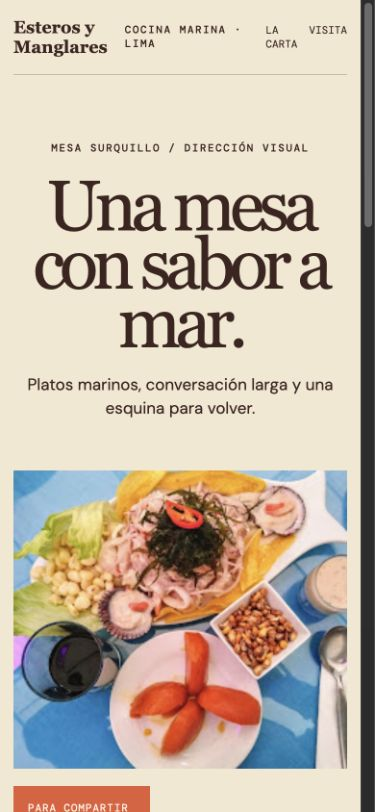
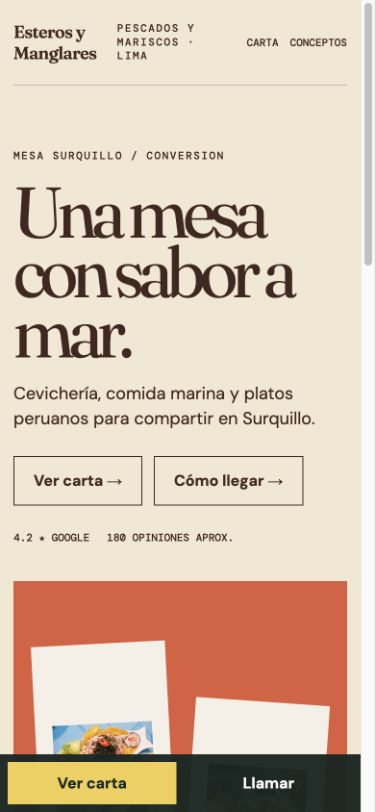
Add private Esteros concept review routes

diff --git a/concepts/concepts.css b/concepts/concepts.css
@@ -1,0 +1,142 @@
+@import url('https://fonts.googleapis.com/css2?family=DM+Mono:wght@400;500&family=DM+Sans:wght@400;500;700&family=Fraunces:opsz,wght@9..144,400;9..144,600&family=Space+Grotesk:wght@400;500;600;700&display=swap');
+:root { --ink:#172621; --paper:#f6f2e9; --line:rgba(23,38,33,.22); --teal:#087f79; --orange:#e65e36; --blue:#2440be; --yellow:#f1cf50; --sans:'DM Sans',Arial,sans-serif; --display:'Space Grotesk',Arial,sans-serif; --serif:'Fraunces',Georgia,serif; --mono:'DM Mono',monospace; }
+* { box-sizing:border-box; }
+html { scroll-behavior:smooth; }
+body { margin:0; font-family:var(--sans); line-height:1.45; }
+a { color:inherit; text-decoration:none; }
+a:focus-visible { outline:3px solid var(--orange); outline-offset:4px; }
+img { display:block; max-width:100%; }
+.concept-shell { width:min(1180px,calc(100% - 40px)); margin:0 auto; }
+.concept-site .kicker { font:500 11px/1.3 var(--mono); letter-spacing:.14em; text-transform:uppercase; }
+.concept-site .topbar { display:flex; align-items:center; justify-content:space-between; gap:28px; padding:22px 0; border-bottom:1px solid currentColor; border-color:var(--line); }
+.concept-site .brand { font-weight:700; letter-spacing:-.03em; }
+.concept-site nav { display:flex; gap:22px; font:500 11px var(--mono); text-transform:uppercase; }
+.concept-site .button { display:inline-flex; min-height:48px; align-items:center; justify-content:center; padding:13px 20px; border:1px solid currentColor; font-weight:700; }
+.concept-site .button:hover { transform:translateY(-2px); }
+.concept-site .actions { display:flex; flex-wrap:wrap; gap:12px; margin-top:26px; }
+.concept-site .section { padding:92px 0; }
+.concept-site h1,.concept-site h2 { margin:0; letter-spacing:-.08em; line-height:.9; }
+.concept-site h2 { font:600 clamp(44px,7vw,86px)/.9 var(--display); }
+.concept-site .photo-frame { display:grid; place-items:center; min-height:320px; padding:36px; background:#e4ded1; }
+.concept-site .photo { width:min(100%,243px); height:auto; }
+.concept-site .menu-list { display:grid; }
+.concept-site .menu-item { padding:20px 0; border-top:1px solid var(--line); }
+.concept-site .menu-item strong { display:block; font-size:18px; }
+.concept-site .menu-item p { max-width:560px; margin:5px 0 0; opacity:.7; }
+.concept-site .footer { padding:30px 0 80px; border-top:1px solid var(--line); font-size:13px; }
+.concept-site .footer-row { display:flex; justify-content:space-between; gap:20px; }
+.concept-site .review-strip { display:flex; flex-wrap:wrap; gap:18px; margin-top:26px; font:500 11px var(--mono); text-transform:uppercase; }
+.concept-site .mobile-bar { display:none; }
+.concept-site .inner-hero { padding:88px 0 76px; border-bottom:1px solid var(--line); }
+.concept-site .inner-hero h1 { max-width:780px; margin:20px 0; font:600 clamp(58px,10vw,122px)/.84 var(--display); }
+.concept-site .inner-hero p:not(.kicker) { max-width:610px; font-size:19px; }
+.concept-site .inner-grid { display:grid; grid-template-columns:.7fr 1.3fr; gap:90px; }
+.concept-site .inner-grid h2 { margin-bottom:28px; }
+.concept-site .contact-list { display:grid; }
+.concept-site .contact-list a { padding:18px 0; border-top:1px solid var(--line); font:400 28px var(--serif); }
+.concept-site .contact-list a:hover { color:var(--orange); }
+
+/* Mar Abierto: bright split and food-first */
+.mar { background:#faf8f3; color:var(--ink); }
+.mar .brand { font:700 16px var(--display); }
+.mar .hero { display:grid; grid-template-columns:1fr 1.1fr; gap:70px; align-items:center; min-height:690px; padding:70px 0 92px; }
+.mar .hero h1 { max-width:570px; margin:20px 0 26px; font:600 clamp(62px,9vw,124px)/.82 var(--display); }
+.mar .hero-copy > p:not(.kicker) { max-width:420px; font-size:19px; }
+.mar .hero .photo-frame { position:relative; min-height:520px; background:var(--teal); }
+.mar .hero .photo-frame::after { content:'PESCADOS · MARISCOS · SURQUILLO'; position:absolute; right:18px; bottom:18px; padding:12px; background:var(--yellow); color:var(--ink); font:500 10px var(--mono); letter-spacing:.08em; }
+.mar .hero .photo { align-self:center; }
+.mar .trust { padding:20px 0; border-block:1px solid var(--line); }
+.mar .trust .concept-shell { display:flex; justify-content:space-between; gap:22px; align-items:center; }
+.mar .trust strong { font-size:18px; }
+.mar .menu-section { display:grid; grid-template-columns:.75fr 1.25fr; gap:90px; }
+.mar .section:nth-of-type(3) { background:#eaf1ea; }
+.mar .location { display:grid; grid-template-columns:1fr .8fr; gap:70px; align-items:center; }
+.mar .location .photo-frame { min-height:310px; background:#d9d0bf; }
+
+/* Mesa Surquillo: denser neighborhood conversion */
+.mesa { background:#f2e6d2; color:#442621; }
+.mesa .brand { font:600 18px var(--serif); }
+.mesa .hero { display:grid; grid-template-columns:.9fr .75fr; gap:70px; align-items:end; padding:72px 0 70px; }
+.mesa .hero-copy h1 { max-width:560px; margin:20px 0; font:400 clamp(60px,9vw,118px)/.84 var(--serif); }
+.mesa .hero-copy > p:not(.kicker) { max-width:470px; font-size:18px; }
+.mesa .hero-visual { display:flex; align-items:end; justify-content:center; gap:18px; min-height:440px; padding:25px; background:#df5b3c; }
+.mesa .hero-visual .photo-frame { min-height:270px; padding:18px; background:#f6f0e6; }
+.mesa .hero-visual .photo-frame:first-child { transform:rotate(-3deg); }
+.mesa .hero-visual .photo-frame:last-child { min-height:210px; transform:rotate(4deg); }
+.mesa .hero-visual .photo { width:min(100%,180px); }
+.mesa .conversion { display:grid; grid-template-columns:repeat(3,1fr); border-block:1px solid var(--line); }
+.mesa .conversion a { min-height:68px; display:grid; place-items:center; border-right:1px solid var(--line); font-weight:700; }
+.mesa .conversion a:last-child { border-right:0; }
+.mesa .menu-section { display:grid; grid-template-columns:.6fr 1.4fr; gap:90px; }
+.mesa .menu-list { max-width:650px; }
+.mesa .location { background:#df5b3c; color:#fff6e7; }
+.mesa .location .concept-shell { display:grid; grid-template-columns:1fr auto; gap:40px; align-items:end; }
+.mesa .location .button { color:#442621; background:#f2d25b; }
+
+/* Sabor del Pacífico: tactile editorial, warm but not luxury */
+.sabor { background:#1d348f; color:#fff7e5; }
+.sabor .brand { font:600 17px var(--display); }
+.sabor .topbar { border-color:rgba(255,247,229,.35); }
+.sabor .hero { display:grid; grid-template-columns:1fr .9fr; gap:76px; align-items:center; padding:78px 0 100px; }
+.sabor .hero h1 { max-width:600px; margin:20px 0; font:400 clamp(62px,9vw,122px)/.83 var(--serif); }
+.sabor .hero-copy > p:not(.kicker) { max-width:460px; color:#dce4ff; font-size:18px; }
+.sabor .hero .photo-frame { min-height:520px; background:#e45d37; transform:rotate(2deg); }
+.sabor .hero .photo-frame .photo { transform:rotate(-2deg); }
+.sabor .button { background:#f1cf50; color:var(--ink); border-color:#f1cf50; }
+.sabor .editorial { background:#fff7e5; color:var(--ink); }
+.sabor .menu-section { display:grid; grid-template-columns:1.1fr .9fr; gap:70px; align-items:start; }
+.sabor .menu-section .photo-frame { min-height:360px; background:#c36b3e; }
+.sabor .location { background:#f1cf50; color:var(--ink); }
+.sabor .location .concept-shell { display:flex; justify-content:space-between; gap:40px; align-items:end; }
+.sabor .location h2 { max-width:680px; }
+
+.hub { min-height:100vh; background:var(--paper); color:var(--ink); }
+.hub .topbar { display:flex; align-items:center; justify-content:space-between; gap:28px; padding:22px 0; border-bottom:1px solid var(--line); }
+.hub .brand { font:700 16px var(--display); letter-spacing:-.03em; }
+.hub .hub-hero { padding:110px 0 80px; border-bottom:1px solid var(--line); }
+.hub h1 { max-width:900px; margin:18px 0; font:600 clamp(58px,9vw,120px)/.84 var(--display); }
+.hub .hub-hero p:not(.kicker) { max-width:620px; font-size:19px; }
+.hub .concept-list { display:grid; grid-template-columns:repeat(3,1fr); gap:1px; background:var(--ink); }
+.hub .concept-card { min-height:360px; display:flex; flex-direction:column; justify-content:space-between; padding:28px; background:var(--paper); }
+.hub .concept-card:nth-child(1) { background:#eaf1ea; }
+.hub .concept-card:nth-child(2) { background:#f2e6d2; }
+.hub .concept-card:nth-child(3) { background:#1d348f; color:#fff7e5; }
+.hub .concept-card h2 { margin:16px 0; font-size:clamp(38px,4vw,64px); }
+.hub .concept-card p { max-width:260px; margin:0; opacity:.75; }
+.hub .concept-card .arrow { font-size:30px; }
+
+@media (max-width:720px) {
+  .concept-shell { width:min(100% - 28px,1180px); }
+  .concept-site .topbar { gap:14px; }
+  .concept-site nav { gap:12px; }
+  .concept-site nav a:nth-child(2) { display:none; }
+  .concept-site .section { padding:68px 0; }
+  .mar .hero,.mesa .hero,.sabor .hero,.mar .menu-section,.mesa .menu-section,.sabor .menu-section,.mar .location { grid-template-columns:1fr; gap:38px; }
+  .mar .hero,.sabor .hero { padding-top:55px; }
+  .mar .hero h1,.sabor .hero h1 { font-size:clamp(62px,19vw,104px); }
+  .mar .hero .photo-frame,.sabor .hero .photo-frame { min-height:360px; }
+  .mar .trust .concept-shell { display:block; }
+  .mar .trust .review-strip { margin-top:12px; }
+  .mesa .hero { padding-top:55px; }
+  .mesa .hero-copy h1 { font-size:clamp(65px,19vw,108px); }
+  .mesa .hero-visual { min-height:360px; }
+  .mesa .hero-visual .photo { width:min(100%,150px); }
+  .mesa .conversion { grid-template-columns:1fr; }
+  .mesa .conversion a { border-right:0; border-bottom:1px solid var(--line); }
+  .mesa .conversion a:last-child { border-bottom:0; }
+  .mesa .location .concept-shell,.sabor .location .concept-shell { display:block; }
+  .hub .hub-hero { padding:70px 0 55px; }
+  .hub .topbar { gap:14px; }
+  .hub h1 { font-size:clamp(60px,18vw,100px); }
+  .hub .concept-list { grid-template-columns:1fr; }
+  .hub .concept-card { min-height:260px; }
+  .concept-site .inner-hero { padding:58px 0 55px; }
+  .concept-site .inner-hero h1 { font-size:clamp(62px,19vw,108px); }
+  .concept-site .inner-grid { grid-template-columns:1fr; gap:38px; }
+  .concept-site .footer-row { display:block; }
+  .concept-site .footer-row > * + * { display:block; margin-top:10px; }
+  .concept-site .mobile-bar { position:fixed; z-index:10; right:0; bottom:0; left:0; display:grid; grid-template-columns:1fr 1fr; padding:8px; gap:8px; background:rgba(23,38,33,.96); color:#fff; }
+  .concept-site .mobile-bar a { min-height:44px; display:grid; place-items:center; font-weight:700; }
+  .concept-site .mobile-bar a:first-child { background:var(--yellow); color:var(--ink); }
+}
+@media (prefers-reduced-motion:reduce) { html { scroll-behavior:auto; } *,*::before,*::after { transition-duration:.01ms!important; animation-duration:.01ms!important; } }

diff --git a/concepts/mesa-surquillo/index.html b/concepts/mesa-surquillo/index.html
@@ -1,0 +1,1 @@
+<!doctype html><html lang="es-PE"><head><meta charset="utf-8"><meta name="viewport" content="width=device-width, initial-scale=1"><title>Mesa Surquillo — Esteros y Manglares</title><meta name="description" content="Cevichería y comida marina en Surquillo, Lima. Dirección visual Mesa Surquillo."><meta name="robots" content="noindex, nofollow"><link rel="stylesheet" href="../concepts.css"></head><body class="concept-site mesa"><main><header class="concept-shell topbar"><a class="brand" href="./">Esteros y Manglares</a><span class="kicker">Pescados y mariscos · Lima</span><nav aria-label="Navegación"><a href="carta.html">Carta</a><a href="visita.html">Cómo llegar</a><a href="../">Conceptos</a></nav></header><section class="concept-shell hero"><div class="hero-copy"><p class="kicker">Mesa Surquillo / conversion</p><h1>Una mesa con sabor a mar.</h1><p>Cevichería, comida marina y platos peruanos para compartir en Surquillo.</p><div class="actions"><a class="button" href="carta.html">Ver carta →</a><a class="button" href="visita.html">Cómo llegar →</a></div><div class="review-strip"><span>4.2 ★ Google</span><span>180 opiniones aprox.</span></div></div><div class="hero-visual"><div class="photo-frame"><img class="photo" src="../../assets/esteros-photos/ceviche%20pic%208.jpg" width="243" height="244" alt="Ceviche servido con acompañamientos"></div><div class="photo-frame"><img class="photo" src="../../assets/esteros-photos/ceviche%20pic%2014.jpg" width="243" height="174" alt="Mesa con varios platos marinos"></div></div></section><section class="conversion" aria-label="Acciones principales"><a href="carta.html">Ver carta</a><a href="visita.html">Cómo llegar</a><a href="tel:+51992577898">Llamar</a></section><section class="section"><div class="concept-shell menu-section"><div><p class="kicker">Platos conocidos</p><h2>Lo que pide<br>la mesa.</h2><p class="muted">Carta referencial. Consulta disponibilidad y precios actuales.</p></div><div class="menu-list"><article class="menu-item"><strong>Ceviche Mixto</strong><p>Pescado y mariscos para empezar fresco.</p></article><article class="menu-item"><strong>Chicharrón de Pescado</strong><p>Un clásico marino para compartir.</p></article><article class="menu-item"><strong>Chita Frita al Ajo</strong><p>Un fondo de pescado con carácter.</p></article><article class="menu-item"><strong>Arroz Volcán de Mariscos</strong><p>Plato nombrado en la investigación de la carta pública.</p></article></div></div></section><section class="section location"><div class="concept-shell"><div><p class="kicker">Surquillo, Lima</p><h2>Antes de salir,<br>confirma el plan.</h2><p>Dirección y horario por confirmar directamente con el restaurante.</p></div><a class="button" href="visita.html">Ver contacto →</a></div></section><footer class="concept-shell footer"><div class="footer-row"><a href="../">← Volver a conceptos</a><span>Esteros y Manglares · concepto privado</span></div></footer><div class="mobile-bar"><a href="carta.html">Ver carta</a><a href="tel:+51992577898">Llamar</a></div></main></body></html>

diff --git a/concepts/mar-abierto/index.html b/concepts/mar-abierto/index.html
@@ -1,0 +1,1 @@
+<!doctype html><html lang="es-PE"><head><meta charset="utf-8"><meta name="viewport" content="width=device-width, initial-scale=1"><title>Mar Abierto — Esteros y Manglares</title><meta name="description" content="Pescados y mariscos en Surquillo, Lima. Dirección visual Mar Abierto."><meta name="robots" content="noindex, nofollow"><link rel="stylesheet" href="../concepts.css"></head><body class="concept-site mar"><main><header class="concept-shell topbar"><a class="brand" href="./">Esteros y Manglares</a><nav aria-label="Navegación"><a href="carta.html">Carta</a><a href="visita.html">Cómo llegar</a><a href="../">Conceptos</a></nav></header><section class="concept-shell hero"><div class="hero-copy"><p class="kicker">Mar Abierto / food-first</p><h1>Pescados y mariscos en Surquillo.</h1><p>Comida marina y criolla peruana para pedir al centro de la mesa.</p><div class="actions"><a class="button" href="carta.html">Ver carta →</a><a class="button" href="visita.html">Cómo llegar →</a></div><div class="review-strip"><span>4.2 ★ Google</span><span>180 opiniones aprox.</span></div></div><div class="photo-frame"><img class="photo" src="../../assets/esteros-photos/ceviche%20pic%2012.jpg" width="243" height="406" alt="Plato marino servido en cucharas"></div></section><section class="trust"><div class="concept-shell"><strong>Una mesa marina, sin rodeos.</strong><div class="review-strip"><span>Surquillo · Lima</span><span>S/60–80 aprox. por persona</span></div></div></section><section class="section"><div class="concept-shell menu-section"><div><p class="kicker">Nuestros platos</p><h2>Elige algo<br>para compartir.</h2><p>Una selección de platos conocidos. La disponibilidad y los precios se confirman con el restaurante.</p></div><div class="menu-list"><article class="menu-item"><strong>Ceviche Mixto</strong><p>Pescado y mariscos para abrir la mesa.</p></article><article class="menu-item"><strong>Arroz con Mariscos</strong><p>Un fondo marino para pedir al centro.</p></article><article class="menu-item"><strong>Jalea Mixta</strong><p>Una opción crocante para compartir.</p></article></div></div></section><section class="section location"><div class="concept-shell"><div><p class="kicker">Ubicación / contacto</p><h2>Encuéntranos en Surquillo.</h2><p>Confirma la dirección y el horario antes de visitar.</p></div><div class="actions"><a class="button" href="visita.html">Ver contacto →</a><a class="button" href="tel:+51992577898">Llamar</a></div></div></section><footer class="concept-shell footer"><div class="footer-row"><a href="../">← Volver a conceptos</a><span>Esteros y Manglares · concepto privado</span></div></footer><div class="mobile-bar"><a href="carta.html">Ver carta</a><a href="tel:+51992577898">Llamar</a></div></main></body></html>

diff --git a/concepts/sabor-pacifico/index.html b/concepts/sabor-pacifico/index.html
@@ -1,0 +1,1 @@
+<!doctype html><html lang="es-PE"><head><meta charset="utf-8"><meta name="viewport" content="width=device-width, initial-scale=1"><title>Sabor del Pacífico — Esteros y Manglares</title><meta name="description" content="Comida marina peruana en Surquillo, Lima. Dirección visual Sabor del Pacífico."><meta name="robots" content="noindex, nofollow"><link rel="stylesheet" href="../concepts.css"></head><body class="concept-site sabor"><main><header class="concept-shell topbar"><a class="brand" href="./">Esteros y Manglares</a><nav aria-label="Navegación"><a href="carta.html">Carta</a><a href="visita.html">Cómo llegar</a><a href="../">Conceptos</a></nav></header><section class="concept-shell hero"><div class="hero-copy"><p class="kicker">Sabor del Pacífico / art-directed</p><h1>El mar llega al centro.</h1><p>Una dirección cálida para la comida marina peruana de Esteros y Manglares.</p><div class="actions"><a class="button" href="carta.html">Ver carta →</a><a class="button" href="visita.html">Cómo llegar →</a></div></div><div class="photo-frame"><img class="photo" src="../../assets/esteros-photos/ceviche%20pic%2013.jpg" width="243" height="406" alt="Arroz con mariscos servido en concha"></div></section><section class="section editorial"><div class="concept-shell menu-section"><div class="photo-frame"><img class="photo" src="../../assets/esteros-photos/ceviche%20pic%201.jpg" width="243" height="174" alt="Interior del restaurante con pilares turquesa"></div><div><p class="kicker">Platos conocidos</p><h2>Color, mesa<br>y hambre.</h2><div class="menu-list"><article class="menu-item"><strong>Cabrilla Frita</strong><p>Un plato marino para comer sin apuro.</p></article><article class="menu-item"><strong>Risotto con Pulpo a la Parrilla</strong><p>Preparación nombrada en reseñas públicas; confirmar disponibilidad.</p></article><article class="menu-item"><strong>Tacu Tacu con Mariscos</strong><p>Un fondo criollo-marino para pedir al centro.</p></article></div></div></div></section><section class="section location"><div class="concept-shell"><div><p class="kicker">Ubicación / contacto</p><h2>Surquillo, Lima.</h2><p>Consulta dirección, horario y disponibilidad antes de ir.</p></div><div class="actions"><a class="button" href="visita.html">Ver contacto →</a><a class="button" href="tel:+51992577898">Llamar</a></div></div></section><footer class="concept-shell footer"><div class="footer-row"><a href="../">← Volver a conceptos</a><span>Esteros y Manglares · concepto privado</span></div></footer><div class="mobile-bar"><a href="carta.html">Ver carta</a><a href="tel:+51992577898">Llamar</a></div></main></body></html>

diff --git a/concepts/sabor-pacifico/carta.html b/concepts/sabor-pacifico/carta.html
@@ -1,0 +1,1 @@
+<!doctype html><html lang="es-PE"><head><meta charset="utf-8"><meta name="viewport" content="width=device-width, initial-scale=1"><title>Carta — Sabor del Pacífico — Esteros y Manglares</title><meta name="robots" content="noindex, nofollow"><meta name="description" content="Platos conocidos de Esteros y Manglares, comida marina en Surquillo."><link rel="stylesheet" href="../concepts.css"></head><body class="concept-site sabor"><main><header class="concept-shell topbar"><a class="brand" href="./">Esteros y Manglares</a><nav><a href="carta.html">Carta</a><a href="visita.html">Cómo llegar</a><a href="../">Conceptos</a></nav></header><section class="concept-shell inner-hero"><p class="kicker">Sabor del Pacífico / carta</p><h1>El mar<br>al centro.</h1><p>Platos conocidos de comida marina peruana. Consulta disponibilidad y precios antes de pedir.</p><div class="actions"><a class="button" href="visita.html">Cómo llegar →</a><a class="button" href="tel:+51992577898">Llamar</a></div></section><section class="section editorial"><div class="concept-shell inner-grid"><div><p class="kicker">Para compartir</p><h2>Color,<br>crocante.</h2><div class="photo-frame"><img class="photo" src="../../assets/esteros-photos/ceviche%20pic%2013.jpg" width="243" height="406" alt="Arroz con mariscos servido en concha"></div></div><div class="menu-list"><article class="menu-item"><strong>Cabrilla Frita</strong><p>Un fondo marino para comer sin apuro.</p></article><article class="menu-item"><strong>Risotto con Pulpo a la Parrilla</strong><p>Nombre identificado en reseñas públicas; confirmar disponibilidad.</p></article><article class="menu-item"><strong>Tacu Tacu con Mariscos</strong><p>Un fondo criollo-marino para pedir al centro.</p></article><article class="menu-item"><strong>Arroz con Mariscos</strong><p>Una opción para compartir.</p></article></div></div></section><section class="section location"><div class="concept-shell"><h2>Surquillo te espera.</h2><a class="button" href="visita.html">Ver contacto →</a></div></section><footer class="concept-shell footer"><div class="footer-row"><a href="./">← Inicio</a><span>Esteros y Manglares · concepto privado</span></div></footer><div class="mobile-bar"><a href="visita.html">Cómo llegar</a><a href="tel:+51992577898">Llamar</a></div></main></body></html>

diff --git a/concepts/mesa-surquillo/carta.html b/concepts/mesa-surquillo/carta.html
@@ -1,0 +1,1 @@
+<!doctype html><html lang="es-PE"><head><meta charset="utf-8"><meta name="viewport" content="width=device-width, initial-scale=1"><title>Platos — Mesa Surquillo — Esteros y Manglares</title><meta name="robots" content="noindex, nofollow"><meta name="description" content="Platos conocidos de Esteros y Manglares, cevichería en Surquillo."><link rel="stylesheet" href="../concepts.css"></head><body class="concept-site mesa"><main><header class="concept-shell topbar"><a class="brand" href="./">Esteros y Manglares</a><nav><a href="carta.html">Carta</a><a href="visita.html">Cómo llegar</a><a href="../">Conceptos</a></nav></header><section class="concept-shell inner-hero"><p class="kicker">Mesa Surquillo / carta</p><h1>Lo que pide<br>la mesa.</h1><p>Carta referencial para pedir al centro. Consulta disponibilidad y precios actuales por llamada.</p><div class="actions"><a class="button" href="tel:+51992577898">Llamar</a><a class="button" href="visita.html">Cómo llegar →</a></div></section><section class="section"><div class="concept-shell inner-grid"><div><p class="kicker">Platos conocidos</p><h2>Marino,<br>criollo.</h2><div class="photo-frame"><img class="photo" src="../../assets/esteros-photos/ceviche%20pic%208.jpg" width="243" height="244" alt="Ceviche servido con acompañamientos"></div></div><div class="menu-list"><article class="menu-item"><strong>Ceviche Mixto</strong><p>Pescado y mariscos para empezar fresco.</p></article><article class="menu-item"><strong>Chita Frita al Ajo</strong><p>Un fondo de pescado con carácter.</p></article><article class="menu-item"><strong>Arroz con Mariscos</strong><p>Para pedir al centro y compartir.</p></article><article class="menu-item"><strong>Arroz Volcán de Mariscos</strong><p>Nombre identificado en referencias públicas; confirmar disponibilidad.</p></article></div></div></section><section class="section location"><div class="concept-shell"><h2>¿Listos para pedir?</h2><a class="button" href="visita.html">Ver contacto →</a></div></section><footer class="concept-shell footer"><div class="footer-row"><a href="./">← Inicio</a><span>Esteros y Manglares · concepto privado</span></div></footer><div class="mobile-bar"><a href="visita.html">Cómo llegar</a><a href="tel:+51992577898">Llamar</a></div></main></body></html>

diff --git a/concepts/mar-abierto/carta.html b/concepts/mar-abierto/carta.html
@@ -1,0 +1,1 @@
+<!doctype html><html lang="es-PE"><head><meta charset="utf-8"><meta name="viewport" content="width=device-width, initial-scale=1"><title>Carta — Mar Abierto — Esteros y Manglares</title><meta name="robots" content="noindex, nofollow"><meta name="description" content="Platos conocidos de Esteros y Manglares, pescados y mariscos en Surquillo."><link rel="stylesheet" href="../concepts.css"></head><body class="concept-site mar"><main><header class="concept-shell topbar"><a class="brand" href="./">Esteros y Manglares</a><nav><a href="carta.html">Carta</a><a href="visita.html">Cómo llegar</a><a href="../">Conceptos</a></nav></header><section class="concept-shell inner-hero"><p class="kicker">Mar Abierto / carta</p><h1>Platos conocidos.<br>Consulta el día.</h1><p>Una carta referencial de pescados y mariscos. La disponibilidad y los precios actuales se confirman con el restaurante.</p><div class="actions"><a class="button" href="visita.html">Cómo llegar →</a><a class="button" href="tel:+51992577898">Llamar</a></div></section><section class="section"><div class="concept-shell inner-grid"><div><p class="kicker">Para abrir</p><h2>Fresco<br>primero.</h2><div class="photo-frame"><img class="photo" src="../../assets/esteros-photos/ceviche%20pic%205.jpg" width="243" height="203" alt="Ceviche servido con lechuga y choclo"></div></div><div class="menu-list"><article class="menu-item"><strong>Ceviche Mixto</strong><p>Una entrada marina para abrir la mesa.</p></article><article class="menu-item"><strong>Chicharrón de Pescado</strong><p>Un clásico crocante para compartir.</p></article><article class="menu-item"><strong>Jalea Mixta</strong><p>Una opción abundante para pedir al centro.</p></article></div></div></section><section class="section location"><div class="concept-shell"><h2>¿Vienes desde Surquillo?</h2><a class="button" href="visita.html">Ver contacto →</a></div></section><footer class="concept-shell footer"><div class="footer-row"><a href="./">← Inicio</a><span>Esteros y Manglares · concepto privado</span></div></footer><div class="mobile-bar"><a href="visita.html">Cómo llegar</a><a href="tel:+51992577898">Llamar</a></div></main></body></html>

diff --git a/concepts/sabor-pacifico/visita.html b/concepts/sabor-pacifico/visita.html
@@ -1,0 +1,1 @@
+<!doctype html><html lang="es-PE"><head><meta charset="utf-8"><meta name="viewport" content="width=device-width, initial-scale=1"><title>Cómo llegar — Sabor del Pacífico — Esteros y Manglares</title><meta name="robots" content="noindex, nofollow"><meta name="description" content="Cómo llegar y contactar a Esteros y Manglares en Surquillo, Lima."><link rel="stylesheet" href="../concepts.css"></head><body class="concept-site sabor"><main><header class="concept-shell topbar"><a class="brand" href="./">Esteros y Manglares</a><nav><a href="carta.html">Carta</a><a href="visita.html">Cómo llegar</a><a href="../">Conceptos</a></nav></header><section class="concept-shell inner-hero"><p class="kicker">Sabor del Pacífico / ubicación</p><h1>Surquillo,<br>Lima.</h1><p>Consulta dirección y horario antes de visitar. El contacto directo mantiene el plan claro.</p><div class="actions"><a class="button" href="https://www.google.com/maps/search/?api=1&query=Esteros+y+Manglares+Surquillo+Lima" target="_blank" rel="noopener">Abrir Maps →</a><a class="button" href="tel:+51992577898">Llamar</a></div></section><section class="section editorial"><div class="concept-shell inner-grid"><div><p class="kicker">Contacto directo</p><h2>La mesa<br>está cerca.</h2></div><div class="contact-list"><a href="tel:+51992577898">Llamar<br><span>992 577 898</span></a><a href="mailto:esterosmanglares@gmail.com">Email<br><span>esterosmanglares@gmail.com</span></a><a href="https://www.instagram.com/esterosymanglaresrestaurant/" target="_blank" rel="noopener">Instagram<br><span>@esterosymanglaresrestaurant</span></a><a href="https://www.facebook.com/p/Restaurant-Esteros-y-Manglares-100058181417756/" target="_blank" rel="noopener">Facebook<br><span>Esteros y Manglares</span></a></div></div></section><footer class="concept-shell footer"><div class="footer-row"><a href="./">← Inicio</a><span>Esteros y Manglares · concepto privado</span></div></footer><div class="mobile-bar"><a href="https://www.google.com/maps/search/?api=1&query=Esteros+y+Manglares+Surquillo+Lima" target="_blank" rel="noopener">Maps</a><a href="tel:+51992577898">Llamar</a></div></main></body></html>

diff --git a/concepts/mesa-surquillo/visita.html b/concepts/mesa-surquillo/visita.html
@@ -1,0 +1,1 @@
+<!doctype html><html lang="es-PE"><head><meta charset="utf-8"><meta name="viewport" content="width=device-width, initial-scale=1"><title>Cómo llegar — Mesa Surquillo — Esteros y Manglares</title><meta name="robots" content="noindex, nofollow"><meta name="description" content="Cómo llegar y contactar a Esteros y Manglares en Surquillo."><link rel="stylesheet" href="../concepts.css"></head><body class="concept-site mesa"><main><header class="concept-shell topbar"><a class="brand" href="./">Esteros y Manglares</a><nav><a href="carta.html">Carta</a><a href="visita.html">Cómo llegar</a><a href="../">Conceptos</a></nav></header><section class="concept-shell inner-hero"><p class="kicker">Mesa Surquillo / contacto</p><h1>Planifica<br>tu visita.</h1><p>Estamos en Surquillo, Lima. Confirma la dirección y el horario del día antes de salir.</p><div class="actions"><a class="button" href="https://www.google.com/maps/search/?api=1&query=Esteros+y+Manglares+Surquillo+Lima" target="_blank" rel="noopener">Cómo llegar →</a><a class="button" href="tel:+51992577898">Llamar</a></div></section><section class="section"><div class="concept-shell inner-grid"><div><p class="kicker">Contacto directo</p><h2>Nos vemos<br>en la mesa.</h2></div><div class="contact-list"><a href="tel:+51992577898">Llamar<br><span>992 577 898</span></a><a href="mailto:esterosmanglares@gmail.com">Email<br><span>esterosmanglares@gmail.com</span></a><a href="https://www.instagram.com/esterosymanglaresrestaurant/" target="_blank" rel="noopener">Instagram<br><span>@esterosymanglaresrestaurant</span></a><a href="https://www.facebook.com/p/Restaurant-Esteros-y-Manglares-100058181417756/" target="_blank" rel="noopener">Facebook<br><span>Esteros y Manglares</span></a></div></div></section><footer class="concept-shell footer"><div class="footer-row"><a href="./">← Inicio</a><span>Esteros y Manglares · concepto privado</span></div></footer><div class="mobile-bar"><a href="https://www.google.com/maps/search/?api=1&query=Esteros+y+Manglares+Surquillo+Lima" target="_blank" rel="noopener">Maps</a><a href="tel:+51992577898">Llamar</a></div></main></body></html>

diff --git a/concepts/mar-abierto/visita.html b/concepts/mar-abierto/visita.html
@@ -1,0 +1,1 @@
+<!doctype html><html lang="es-PE"><head><meta charset="utf-8"><meta name="viewport" content="width=device-width, initial-scale=1"><title>Cómo llegar — Mar Abierto — Esteros y Manglares</title><meta name="robots" content="noindex, nofollow"><meta name="description" content="Contacto y ubicación de Esteros y Manglares en Surquillo, Lima."><link rel="stylesheet" href="../concepts.css"></head><body class="concept-site mar"><main><header class="concept-shell topbar"><a class="brand" href="./">Esteros y Manglares</a><nav><a href="carta.html">Carta</a><a href="visita.html">Cómo llegar</a><a href="../">Conceptos</a></nav></header><section class="concept-shell inner-hero"><p class="kicker">Mar Abierto / ubicación</p><h1>Encuéntranos<br>en Surquillo.</h1><p>Confirma la dirección y el horario antes de salir. El contacto directo es la forma más segura de planificar tu visita.</p><div class="actions"><a class="button" href="https://www.google.com/maps/search/?api=1&query=Esteros+y+Manglares+Surquillo+Lima" target="_blank" rel="noopener">Abrir Maps →</a><a class="button" href="tel:+51992577898">Llamar</a></div></section><section class="section"><div class="concept-shell inner-grid"><div><p class="kicker">Contacto</p><h2>Una pregunta<br>resuelve el plan.</h2></div><div class="contact-list"><a href="tel:+51992577898">Llamar<br><span>992 577 898</span></a><a href="mailto:esterosmanglares@gmail.com">Email<br><span>esterosmanglares@gmail.com</span></a></div></div></section><footer class="concept-shell footer"><div class="footer-row"><a href="./">← Inicio</a><span>Esteros y Manglares · concepto privado</span></div></footer><div class="mobile-bar"><a href="https://www.google.com/maps/search/?api=1&query=Esteros+y+Manglares+Surquillo+Lima" target="_blank" rel="noopener">Maps</a><a href="tel:+51992577898">Llamar</a></div></main></body></html>

diff --git a/concepts/index.html b/concepts/index.html
@@ -1,0 +1,1 @@
+<!doctype html><html lang="es-PE"><head><meta charset="utf-8"><meta name="viewport" content="width=device-width, initial-scale=1"><title>Esteros y Manglares — Conceptos privados</title><meta name="robots" content="noindex, nofollow"><meta name="description" content="Tres direcciones visuales privadas para Esteros y Manglares."><link rel="stylesheet" href="concepts.css"></head><body class="hub"><main><header class="concept-shell topbar"><strong class="brand">Esteros y Manglares</strong><span class="kicker">Private design review</span></header><section class="concept-shell hub-hero"><p class="kicker">Surquillo · Lima · pescados y mariscos</p><h1>Tres maneras de poner la mesa.</h1><p>Direcciones visuales construidas con fotografías reales del restaurante. Abre cada una para revisar Inicio, Carta y Ubicación / Contacto.</p></section><section class="concept-shell concept-list" aria-label="Direcciones visuales"><a class="concept-card" href="mar-abierto/"><span class="kicker">01 / food-first</span><div><h2>Mar Abierto</h2><p>Claro, contemporáneo y fotográfico. La comida abre la conversación.</p></div><span class="arrow">↗</span></a><a class="concept-card" href="mesa-surquillo/"><span class="kicker">02 / conversion</span><div><h2>Mesa Surquillo</h2><p>Local, útil y directo. Menú, confianza y contacto llegan rápido.</p></div><span class="arrow">↗</span></a><a class="concept-card" href="sabor-pacifico/"><span class="kicker">03 / art-directed</span><div><h2>Sabor del Pacífico</h2><p>Cálido, editorial y táctil, con el plato siempre al frente.</p></div><span class="arrow">↗</span></a></section><footer class="concept-shell footer"><p>Internal review only · No concept selected · No deployment</p></footer></main></body></html>
